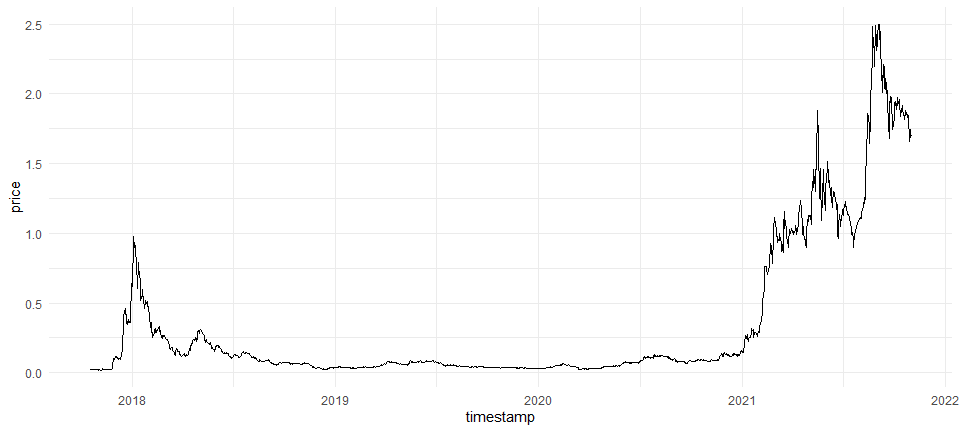
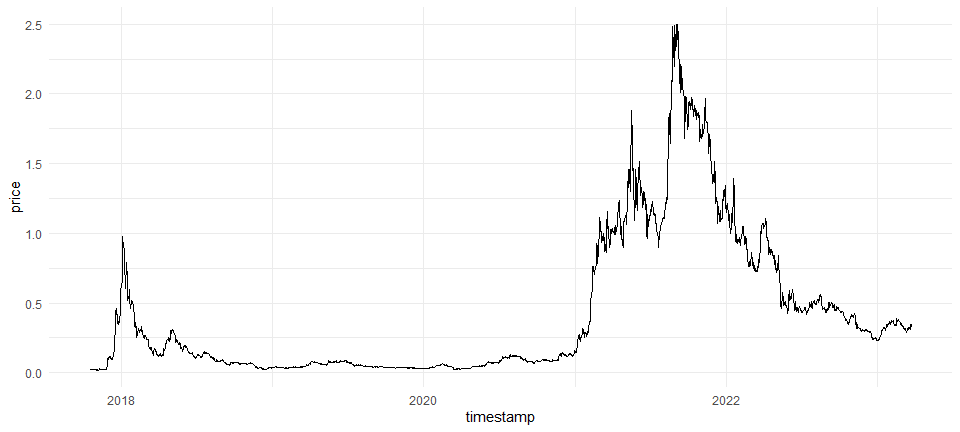
updated README for release

diff --git a/README.md b/README.md
@@ -1,5 +1,5 @@
 
-<!-- README.md is generated from README.Rmd. Please edit that file -->
+<!-- README.md is generated from README.xcvRmd. Please edit that file -->
 
 # geckor <img src="man/figures/logo.png" align="right" height="169"/>
 
@@ -15,19 +15,18 @@ downloads](https://cranlogs.r-pkg.org/badges/grand-total/geckor)](https://cran.r
 
 <!-- badges: end -->
 
-`geckor` is an R client for the public [CoinGecko
+`geckor` is an R client for the *free* version of the [CoinGecko
 API](https://www.coingecko.com/en/api#explore-api). This package
 implements several endpoints offered by that API, allowing users to
 collect the current and historical market data on thousands of
-cryptocurrencies from more than 300 exchanges. Results are returned in a
+cryptocurrencies from hundreds of exchanges. Results are returned in a
 tabular form (as [tibbles](https://tibble.tidyverse.org/)), ready for
 any downstream analyses.
 
 ## Installation
 
-A stable version of this package can be installed from
-[CRAN](https://cran.r-project.org/web/packages/geckor/index.html) the
-usual way:
+A stable version of the package can be installed from
+[CRAN](https://CRAN.R-project.org/package=geckor) the usual way:
 
 ``` r
 install.packages("geckor")
@@ -52,7 +51,8 @@ library(geckor)
 #> R client for the CoinGecko API
 #> Developed by Next Game Solutions (http://nextgamesolutions.com)
 
-# check if the CoinGecko service is available:
+# check if the CoinGecko service is available (this command can be
+# particularly useful to check if the API rate limit has been exceeded):
 ping()
 #> [1] TRUE
 ```
@@ -65,19 +65,19 @@ library(ggplot2)
 # expressed in USD, EUR, and GBP:
 current_price(coin_ids = c("cardano", "tron", "polkadot"),
               vs_currencies = c("usd", "eur", "gbp"))
-#> # A tibble: 9 x 7
-#>   coin_id    price vs_currency   market_cap     vol_24h price_percent_change_24h
-#>   <chr>      <dbl> <chr>              <dbl>       <dbl>                    <dbl>
-#> 1 cardano   1.97   usd         62961901389. 1941895477.                    0.842
-#> 2 cardano   1.7    eur         54371190678. 1675714039.                    0.542
-#> 3 cardano   1.44   gbp         46001413279. 1419661527.                    0.889
-#> 4 polkadot 48.4    usd         50311554475. 2713102647.                   14.8  
-#> 5 polkadot 41.7    eur         43427424476. 2341209528.                   14.4  
-#> 6 polkadot 35.4    gbp         36748012192. 1983467952.                   14.8  
-#> 7 tron      0.101  usd          7223493095. 1907815134.                    0.965
-#> 8 tron      0.0870 eur          6231064602. 1646305190.                    0.665
-#> 9 tron      0.0737 gbp          5277903018. 1394746410.                    1.01 
-#> # ... with 1 more variable: last_updated_at <dttm>
+#> # A tibble: 9 × 7
+#>   coin_id   price vs_currency   market_cap   vol_24h price…¹ last_updated_at    
+#>   <chr>     <dbl> <chr>              <dbl>     <dbl>   <dbl> <dttm>             
+#> 1 cardano  0.371  usd         12997756880.    4.23e8    2.61 2023-03-23 21:35:30
+#> 2 cardano  0.342  eur         11997748459.    3.90e8    2.85 2023-03-23 21:35:30
+#> 3 cardano  0.302  gbp         10577275601.    3.44e8    2.43 2023-03-23 21:35:30
+#> 4 polkadot 6.27   usd          7622428922.    1.86e8    3.11 2023-03-23 21:36:03
+#> 5 polkadot 5.79   eur          7036370852.    1.72e8    3.36 2023-03-23 21:36:03
+#> 6 polkadot 5.1    gbp          6203727206.    1.52e8    2.94 2023-03-23 21:36:03
+#> 7 tron     0.0663 usd          6049312269.    7.33e8    9.61 2023-03-23 21:36:15
+#> 8 tron     0.0612 eur          5584204846.    6.77e8    9.87 2023-03-23 21:36:15
+#> 9 tron     0.0540 gbp          4923402171.    5.97e8    9.44 2023-03-23 21:36:15
+#> # … with abbreviated variable name ¹price_percent_change_24h
 
 # Get a more comprehensive view of the current Cardano, Tron, and 
 # Polkadot markets:
@@ -90,34 +90,34 @@ current_market(coin_ids = c("cardano", "tron", "polkadot"),
 #> $ symbol                                   <chr> "ada", "dot", "trx"
 #> $ name                                     <chr> "Cardano", "Polkadot", "TRON"
 #> $ vs_currency                              <chr> "usd", "usd", "usd"
-#> $ last_updated_at                          <dttm> 2021-11-01 15:52:06, 2021-11-~
-#> $ current_price                            <dbl> 1.970000, 48.370000, 0.100774
-#> $ market_cap                               <dbl> 62961901389, 50311554475, 722~
-#> $ market_cap_rank                          <int> 5, 8, 30
-#> $ fully_diluted_valuation                  <dbl> 88356859112, NA, NA
-#> $ total_volume                             <dbl> 1941895477, 2713102647, 19078~
-#> $ high_24h                                 <dbl> 2.000000, 48.410000, 0.102011
-#> $ low_24h                                  <dbl> 1.920000, 42.030000, 0.098313
-#> $ price_change_24h                         <dbl> 0.01642317, 6.23000000, 0.000~
-#> $ price_change_percentage_24h              <dbl> 0.84201, 14.78245, 0.96538
-#> $ market_cap_change_24h                    <dbl> 610156041, 6522760033, 38887~
-#> $ market_cap_change_percentage_24h         <dbl> 0.97857, 14.89596, 0.54125
-#> $ circulating_supply                       <dbl> 32066390668, 1046044876, 7166~
-#> $ total_supply                             <dbl> 45000000000, 1126994753, 1008~
+#> $ last_updated_at                          <dttm> 2023-03-23 21:35:30, 2023-03-…
+#> $ current_price                            <dbl> 0.371018, 6.270000, 0.066308
+#> $ market_cap                               <dbl> 12997756880, 7622428922, 6049…
+#> $ market_cap_rank                          <int> 7, 13, 16
+#> $ fully_diluted_valuation                  <dbl> 16689933284, 8130281468, 6049…
+#> $ total_volume                             <int> 422729930, 186311319, 7333750…
+#> $ high_24h                                 <dbl> 0.387702, 6.430000, 0.066840
+#> $ low_24h                                  <dbl> 0.357681, 6.040000, 0.059550
+#> $ price_change_24h                         <dbl> 0.00941979, 0.18892400, 0.00…
+#> $ price_change_percentage_24h              <dbl> 2.60504, 3.10692, 9.61177
+#> $ market_cap_change_24h                    <int> 253782697, 214677775, 5332640…
+#> $ market_cap_change_percentage_24h         <dbl> 1.99139, 2.89802, 9.66750
+#> $ circulating_supply                       <dbl> 35045020830, 1214960962, 9113…
+#> $ total_supply                             <dbl> 45000000000, 1295909046, 9113…
 #> $ max_supply                               <dbl> 4.5e+10, NA, NA
-#> $ ath                                      <dbl> 3.090000, 49.350000, 0.231673
-#> $ ath_change_percentage                    <dbl> -36.23617, -2.22400, -56.48172
-#> $ ath_date                                 <dttm> 2021-09-02 06:00:10, 2021-05-~
-#> $ atl                                      <dbl> 0.01925275, 2.70000000, 0.001~
-#> $ atl_change_percentage                    <dbl> 10123.646, 1688.777, 5487.633
-#> $ atl_date                                 <dttm> 2020-03-13 02:22:55, 2020-08-~
-#> $ price_change_percentage_1h_in_currency   <dbl> 0.1115647, 1.3788054, 0.25362~
-#> $ price_change_percentage_24h_in_currency  <dbl> 0.8420050, 14.7824486, 0.9653~
-#> $ price_change_percentage_7d_in_currency   <dbl> -7.594107, 13.739417, 1.111000
-#> $ price_change_percentage_14d_in_currency  <dbl> -8.847608, 14.802182, 1.920407
-#> $ price_change_percentage_30d_in_currency  <dbl> -12.456206, 51.244028, 6.3035~
-#> $ price_change_percentage_200d_in_currency <dbl> 35.08001, 13.80820, -28.67864
-#> $ price_change_percentage_1y_in_currency   <dbl> 2017.9236, 1057.6327, 289.7382
+#> $ ath                                      <dbl> 3.090000, 54.980000, 0.231673
+#> $ ath_change_percentage                    <dbl> -87.96914, -88.60833, -71.215…
+#> $ ath_date                                 <dttm> 2021-09-02 06:00:10, 2021-11-…
+#> $ atl                                      <dbl> 0.01925275, 2.70000000, 0.001…
+#> $ atl_change_percentage                    <dbl> 1828.9812, 132.1908, 3595.9172
+#> $ atl_date                                 <dttm> 2020-03-13 02:22:55, 2020-08-…
+#> $ price_change_percentage_1h_in_currency   <dbl> -0.9711197, -0.2364526, 1.241…
+#> $ price_change_percentage_24h_in_currency  <dbl> 2.605042, 3.106919, 9.611768
+#> $ price_change_percentage_7d_in_currency   <dbl> 13.967481, 6.388207, 1.002458
+#> $ price_change_percentage_14d_in_currency  <dbl> 16.530775, 11.874656, 1.456164
+#> $ price_change_percentage_30d_in_currency  <dbl> -7.95468, -16.70648, -7.72304
+#> $ price_change_percentage_200d_in_currency <dbl> -22.751476, -13.840078, 5.029…
+#> $ price_change_percentage_1y_in_currency   <dbl> -61.976078, -69.214604, 4.504…
 
 # Collect all historical data on the price of Cardano (expressed in EUR),
 # and plot the result:
@@ -133,8 +133,11 @@ cardano_history %>%
 <img src="man/figures/README-example-1.png" width="100%" style="display: block; margin: auto;" />
 
 ``` r
-# As of v0.2.0, all `coin_history_*()` functions can retrieve 
-# data for multiple coins (up to 30) in one call, e.g.:
+
+# As of v0.2.0, all `coin_history_*()` functions could retrieve 
+# data for up 30 coins in one call. However, this number had to be scaled
+# down to 5 in v0.3.0 due to the significantly lower API rate limit that had 
+# been introduced by CoinGecko:
 two_coins <- coin_history(coin_id = c("cardano", "polkadot"), 
                           vs_currency = "usd", 
                           days = 3)
@@ -144,9 +147,13 @@ two_coins$coin_id %>% unique()
 
 ## API rate limit
 
-The public [CoinGecko
-API](https://www.coingecko.com/api/documentations/v3) offers a rate
-limit of 50 calls per minute. Please keep this limit in mind when
+When this package was first released back in 2021, the free version of
+the [CoinGecko API](https://www.coingecko.com/api/documentations/v3)
+offered a rate limit of ca. 50 calls/minute. Unfortunately, since then
+CoinGecko has reduced that rate dramatically in a push to commercialise
+their product. As of March 2023, a realistic rate limit was around 10-15
+calls/minute, making it rather hard to use the free API (and, therefore,
+`geckor`) for any serious workloads. Please keep this in mind when
 developing your applications using the `geckor` package.
 
 ## Getting help
@@ -165,7 +172,7 @@ been downloaded from
 and is believed to be in the public domain. The logo has been created
 using the [hexmake app](https://connect.thinkr.fr/hexmake/).
 
-Copyright © 2021 [Next Game Solutions OÜ](http://nextgamesolutions.com)
+Copyright © 2023 [Next Game Solutions OÜ](http://nextgamesolutions.com)
 
 ------------------------------------------------------------------------
 
